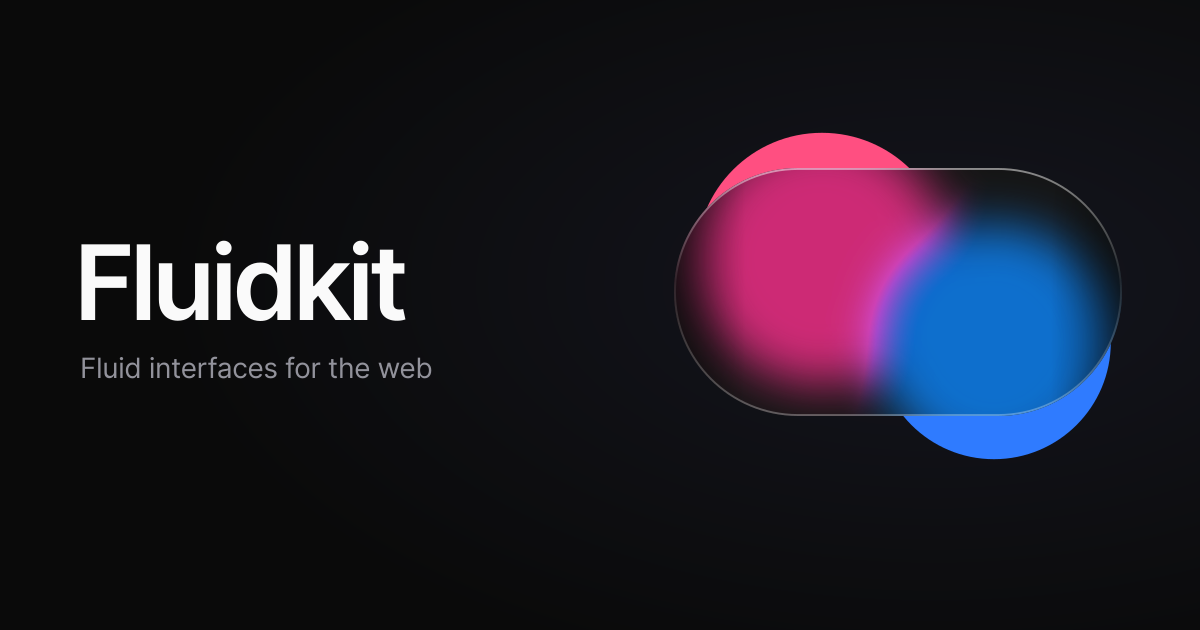
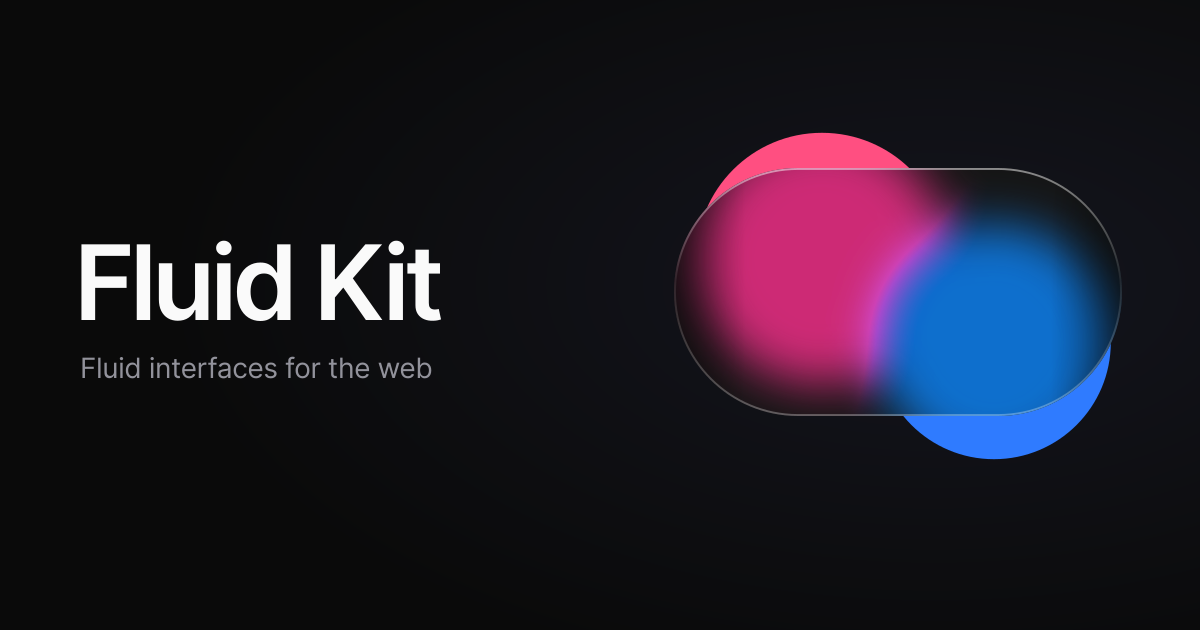
docs(repo): spell the name Fluid Kit
The family is Fluid Kit, two words, wherever it's named: the site, its title and social image,
the READMEs, changelogs and comments. The npm scope stays @fluidkit.

Changed region(s): [[0.2467, 0.3619, 0.37, 0.5127]]

diff --git a/packages/core/src/contract.ts b/packages/core/src/contract.ts
@@ -3,7 +3,7 @@
  * imports another; each marks what it does and reads what the others mark, so any one of them
  * works alone and any two work together.
  *
- * `fk` (Fluidkit) names are the family's: shared by its packages, and changed only with a major
+ * `fk` (Fluid Kit) names are the family's: shared by its packages, and changed only with a major
  * version of all of them. What only one package uses stays its own (`data-lb-*`).
  */
 

diff --git a/packages/core/src/index.ts b/packages/core/src/index.ts
@@ -1,5 +1,5 @@
 /**
- * What the Fluidkit packages share: the spring every moving part runs on, boxes read as the
+ * What the Fluid Kit packages share: the spring every moving part runs on, boxes read as the
  * browser draws them, and the DOM attributes they recognize each other by. Nothing here touches the
  * page by itself.
  */

diff --git a/packages/morph/CHANGELOG.md b/packages/morph/CHANGELOG.md
@@ -7,7 +7,7 @@ First release.
 - One element flows into another: `createMorph({ states })` and `to(state)`, between any of its states, with independent springs for center, size and progress, interruptible with the velocity kept. Sent back mid-way it turns around; sent elsewhere, it starts over from where the shape is.
 - The bigger state flies itself, live the whole way (pressed, typed into, playing), through transform, opacity, filter and clip-path; the smaller one rides in the shape as a copy. A translation of the bigger state's own (`translate: -50% -50%`) is kept.
 - Shared elements: pieces marked with the same `data-fk-match` in two states fly from one to the other.
-- Works on any element: the shape takes the states' surfaces, and where they differ one dissolves into the other. With `@fluidkit/blur` it's the same glass, and inside a glass group it lifts over the group or melts with it, through the Fluidkit DOM contract.
+- Works on any element: the shape takes the states' surfaces, and where they differ one dissolves into the other. With `@fluidkit/blur` it's the same glass, and inside a glass group it lifts over the group or melts with it, through the Fluid Kit DOM contract.
 - Each corner goes from one state's radius to the other's, circular all the way; corner shapes interpolate as a superellipse where `corner-shape` is supported.
 - Follows scrolling, window resizes and the states' own size changes during a flight; `update()` for any other move.
 - The bigger state, coming in magnified, doesn't widen the page on its way: the nearest element spanning the page clips sideways while it flies (iOS Safari pans past the body's own `overflow`).

diff --git a/packages/core/CHANGELOG.md b/packages/core/CHANGELOG.md
@@ -6,5 +6,5 @@ First release.
 
 - `SpringAnimator`: SwiftUI-style springs (perceptual duration and bounce) over several numeric channels, shared or per channel, solved exactly at any frame rate. `to()` keeps the velocity when retargeting; `retarget()` corrects the flight under way without a second overshoot; `jump()` moves channels at once, keeping their velocity; `velocities()` reads each channel's speed to hand it on; an optional `settle` bounce after the first turn. A frame stamped before the movement was asked for doesn't step it back.
 - Boxes as the browser draws them: `measureBox()` (where an element is on screen, its corners and their shape), `radiiOf()`, `cornerOf()` and `fitRadii()` for circular corners fitted the way the browser fits them, `cornerShapeOf()` for `corner-shape` as a superellipse exponent, `drawsCornerShape()`, `radiiCss()`, `px()`, and `still()` to read an element without its inline transforms.
-- The Fluidkit DOM contract: `SURFACE`, `PART` and `AWAY` (`data-fk-surface`, `data-fk-part`, `data-fk-away`).
+- The Fluid Kit DOM contract: `SURFACE`, `PART` and `AWAY` (`data-fk-surface`, `data-fk-part`, `data-fk-away`).
 - ESM with TypeScript declarations and no dependencies.

diff --git a/packages/blur/CHANGELOG.md b/packages/blur/CHANGELOG.md
@@ -8,7 +8,7 @@ First release.
 - Regular, clear and tinted surfaces with inherited controls for transparency, depth, colors and theme.
 - Press (`@fluidkit/blur/press`): spring-driven highlight, swell and stretch, for mouse, touch and keyboard; disabled controls (`:disabled`, `aria-disabled="true"`) aren't pressed. `@fluidkit/blur/auto` installs it on import.
 - Melt (`@fluidkit/blur/melt`): glass groups that merge nearby rounded shapes into one surface without blurring overlaps twice. The shared glass is clipped and masked to the melted outline, so Chromium on Windows doesn't show a blurred rectangle around it under a rounded, clipping ancestor.
-- Meets `@fluidkit/morph` through the Fluidkit DOM contract (`data-fk-surface`, `data-fk-part`, `data-fk-away`), without importing it.
+- Meets `@fluidkit/morph` through the Fluid Kit DOM contract (`data-fk-surface`, `data-fk-part`, `data-fk-away`), without importing it.
 - Reduced transparency, increased contrast, forced colors and reduced motion support.
 - ESM entry points with TypeScript declarations, and a stylesheet declaration for TypeScript's Bundler and NodeNext module resolution. Depends on `@fluidkit/core`.
 

diff --git a/packages/core/README.md b/packages/core/README.md
@@ -1,6 +1,6 @@
 # @fluidkit/core
 
-What the [Fluidkit](https://liquid-web.mogilnikov.dev) packages share: an interruptible,
+What the [Fluid Kit](https://liquid-web.mogilnikov.dev) packages share: an interruptible,
 velocity-keeping spring every moving part runs on, boxes read as the browser draws them, and the
 DOM attributes they meet by. You get it with `@fluidkit/blur`, `@fluidkit/morph` or
 `@fluidkit/indicator`; install it on its own for the spring.

diff --git a/packages/indicator/README.md b/packages/indicator/README.md
@@ -7,7 +7,7 @@ elsewhere, blurred by its own speed on the way, as iOS does. Works on any elemen
 [`@fluidkit/blur`](https://liquid-web.mogilnikov.dev/blur) it can be glass.
 
 **[Documentation](https://liquid-web.mogilnikov.dev/indicator)** · [Changelog](CHANGELOG.md) · Part of
-[Fluidkit](https://liquid-web.mogilnikov.dev)
+[Fluid Kit](https://liquid-web.mogilnikov.dev)
 
 ```bash
 npm install @fluidkit/indicator

diff --git a/packages/blur/README.md b/packages/blur/README.md
@@ -5,7 +5,7 @@ melts between shapes. Plain CSS classes and optional, framework-agnostic scripts
 calm, blurred surface built only from what every engine renders the same way.
 
 **[Documentation](https://liquid-web.mogilnikov.dev/blur)** · [Changelog](CHANGELOG.md) · Part of
-[Fluidkit](https://liquid-web.mogilnikov.dev)
+[Fluid Kit](https://liquid-web.mogilnikov.dev)
 
 ```bash
 npm install @fluidkit/blur

diff --git a/packages/morph/README.md b/packages/morph/README.md
@@ -7,7 +7,7 @@ from one to the other. It works on any element; with
 [`@fluidkit/blur`](https://liquid-web.mogilnikov.dev/blur) it's the same glass.
 
 **[Documentation](https://liquid-web.mogilnikov.dev/morph)** · [Changelog](CHANGELOG.md) · Part of
-[Fluidkit](https://liquid-web.mogilnikov.dev)
+[Fluid Kit](https://liquid-web.mogilnikov.dev)
 
 ```bash
 npm install @fluidkit/morph

diff --git a/README.md b/README.md
@@ -1,4 +1,4 @@
-# Fluidkit
+# Fluid Kit
 
 A family of small, framework-agnostic libraries for fluid interfaces on the web. Each package works
 on its own, on plain DOM; where two meet, they read attributes the other sets (`data-fk-*`, see
